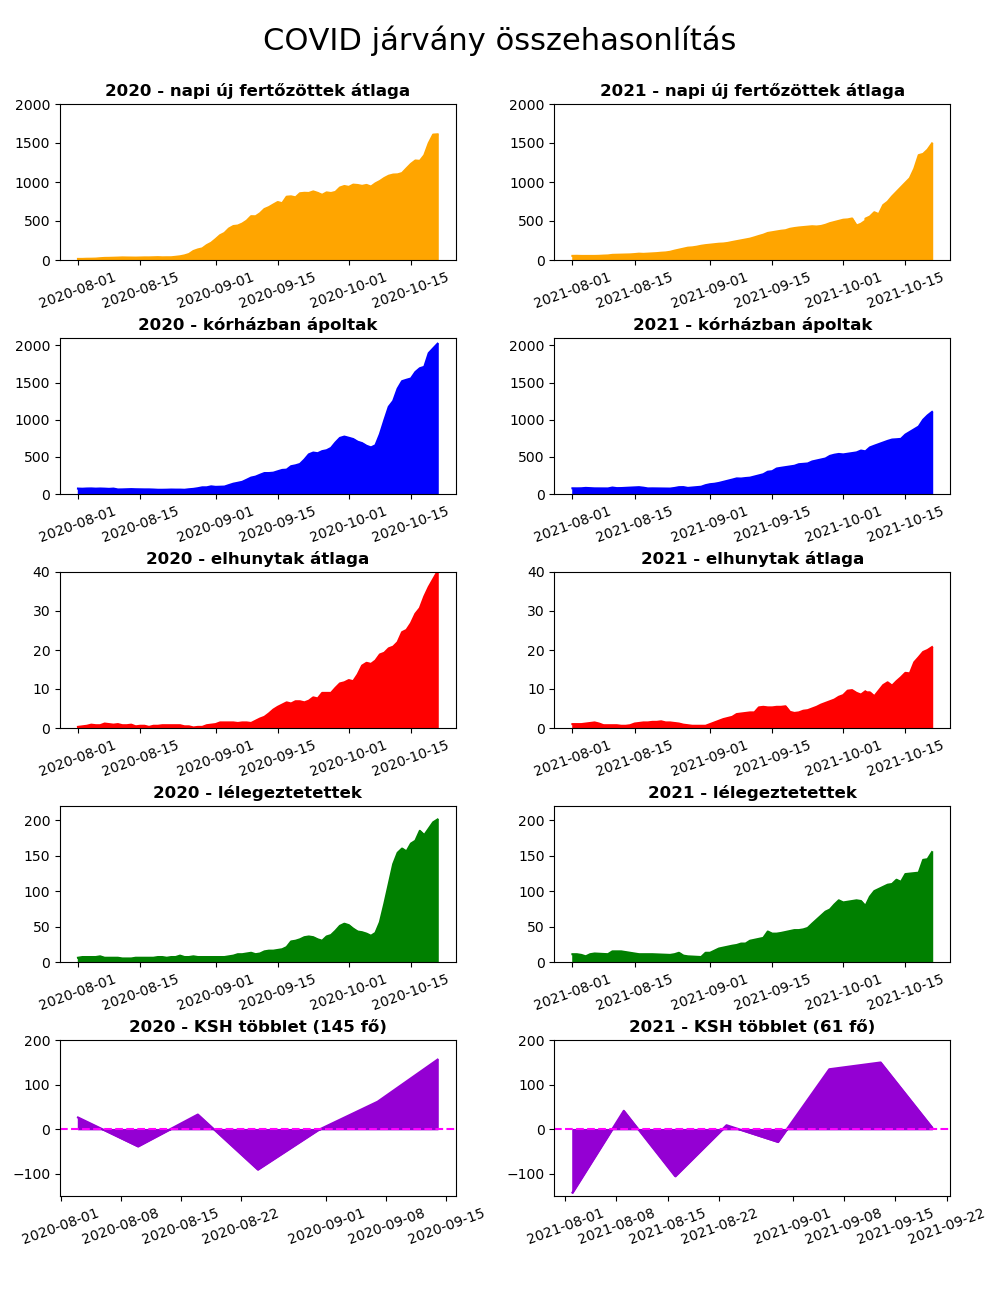
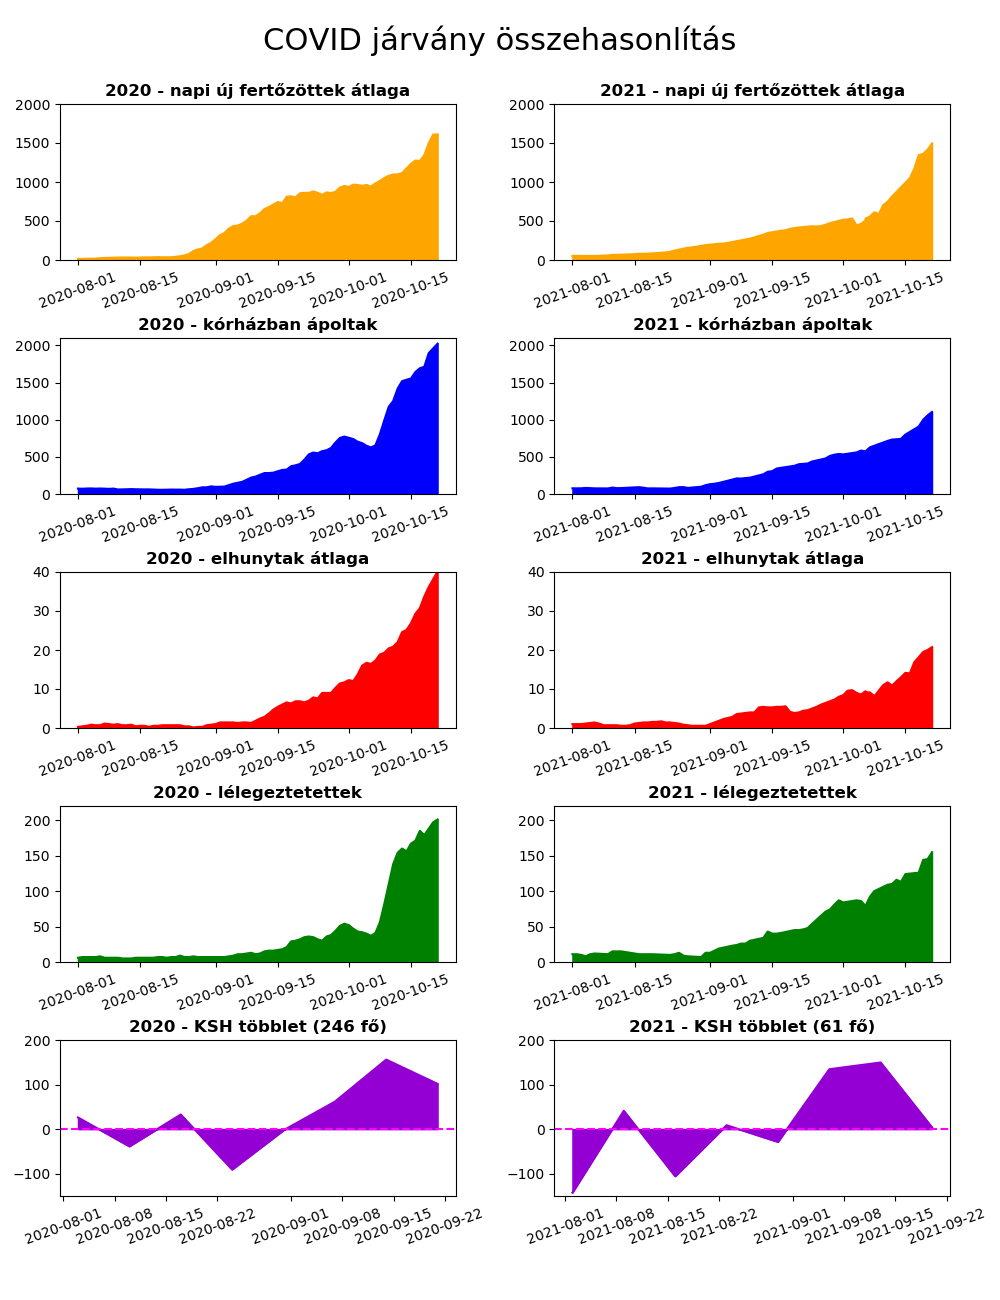
A KSH adatok finomhangolása

Changed region(s): [[0.031, 0.8, 0.496, 0.9538]]

diff --git a/kép_összehasonlítás.py b/kép_összehasonlítás.py
@@ -43,7 +43,7 @@ dfkshatlag = dfkshatlag.rename(columns = {'Összesen összesen': 'KSH 5 éves á
 dfkshatlag = dfkshatlag[["A hét sorszáma", "KSH 5 éves átlag"]]
 
 maxdateksh = dfksh['A hét kező napja'].max()
-maxdateksh1y = maxdateksh + timedelta(days = -365)
+maxdateksh1y = maxdateksh + timedelta(days = -360)
 
 dfkshmerge = pd.merge(dfksh[['A hét sorszáma', 'A hét kező napja', 'Összesen összesen']], dfkshatlag, left_on = 'A hét sorszáma', right_on = 'A hét sorszáma')
 dfkshmerge = dfkshmerge.rename(columns = {'Összesen összesen': 'KSH halálozás', 'A hét kező napja': 'Dátum'}, inplace = False)
